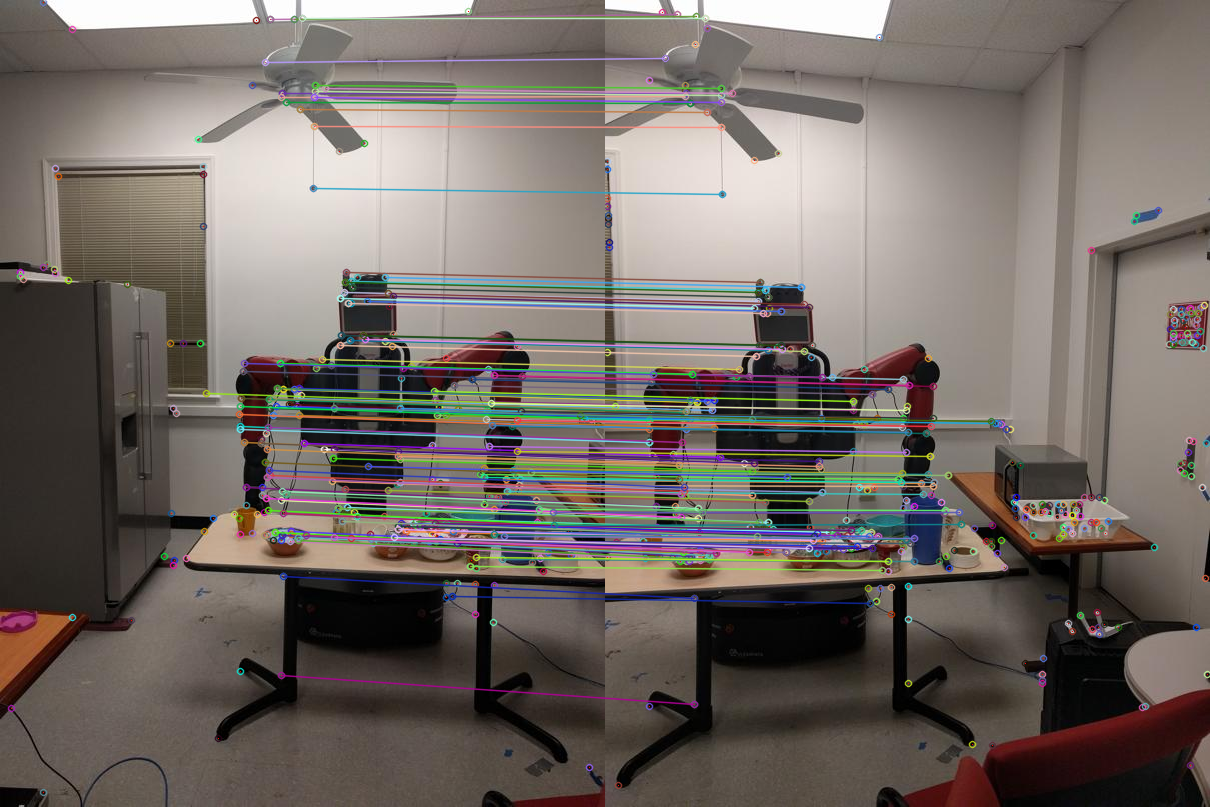
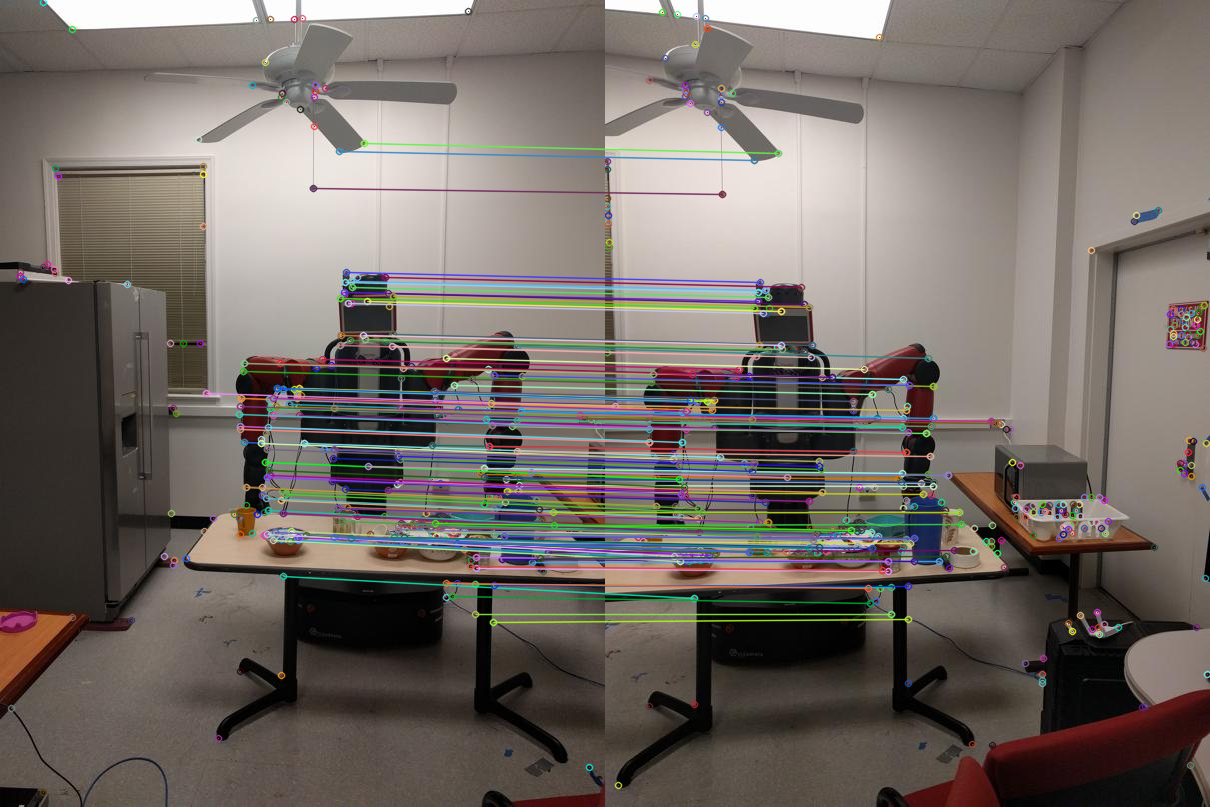
Stiching code, works well for set 1 but seems to have some issues for sets 2, 3

diff --git a/Phase1/Code/Wrapper2.py b/Phase1/Code/Wrapper2.py
@@ -33,7 +33,7 @@ def main():
     # Args = Parser.parse_args()
     # NumFeatures = Args.NumFeatures
 
-    path = "Set1"
+    path = "Set2"
     os.makedirs(f'outputs/{path}', exist_ok=True)
 
     """
@@ -301,7 +301,8 @@ def main():
     homography_set = {}
     inliers_set = {}
     
-    # Initialize a list to store the cumulative homographies (key: (index, H)) encodes the homography H from index to key
+    # Initialize a list to store the cumulative homographies (key: (index, H)) encodes the homography H from 0 to key, 
+    # using index as the last image in the chain
     cumulative_homographies = {0: (0, np.eye(3))}  # Homography from 0 to 0 is the identity matrix
 
     for i, (im1, features1, desc1) in enumerate(zip(im_set[:-1], features_set[:-1], discriptors_set[:-1])):
@@ -324,7 +325,7 @@ def main():
             if i == 0:  # If we're at the first pair, just store the homography H
                 cumulative_homographies[j] = (0, H)
             else:  # For subsequent pairs, multiply by the previous cumulative homography
-                cumulative_homographies[j] = (i, H)
+                cumulative_homographies[j] = (i, cumulative_homographies[i][1] @ H)
             
             #  KeyPoints
             key1 = [cv2.KeyPoint(np.float32(x), np.float32(y), 1) for (x, y) in features1]
@@ -345,9 +346,18 @@ def main():
         gray = cv2.cvtColor(image, cv2.COLOR_BGR2GRAY)
         
         from_index, H = cumulative_homographies[i]
+
+        h, w = image.shape[:2]
+        new_width = w * 3
+        new_height = h * 3
+
+        # Translation matrix to center the image on the canvas
+        translation_matrix = np.array([[1, 0, w], [0, 1, h], [0, 0, 1]])
+
+        H_combined = translation_matrix @ np.linalg.inv(H)
         
         # Apply homography
-        warped = cv2.warpPerspective(image, np.linalg.inv(H), (image.shape[1] * 2, image.shape[0] * 2))
+        warped = cv2.warpPerspective(image, H_combined, (new_width, new_height))
         warped_images.append(warped)
         
         cv2.imwrite(f'outputs/{path}/warped_{from_index}_{i}.png', warped)
